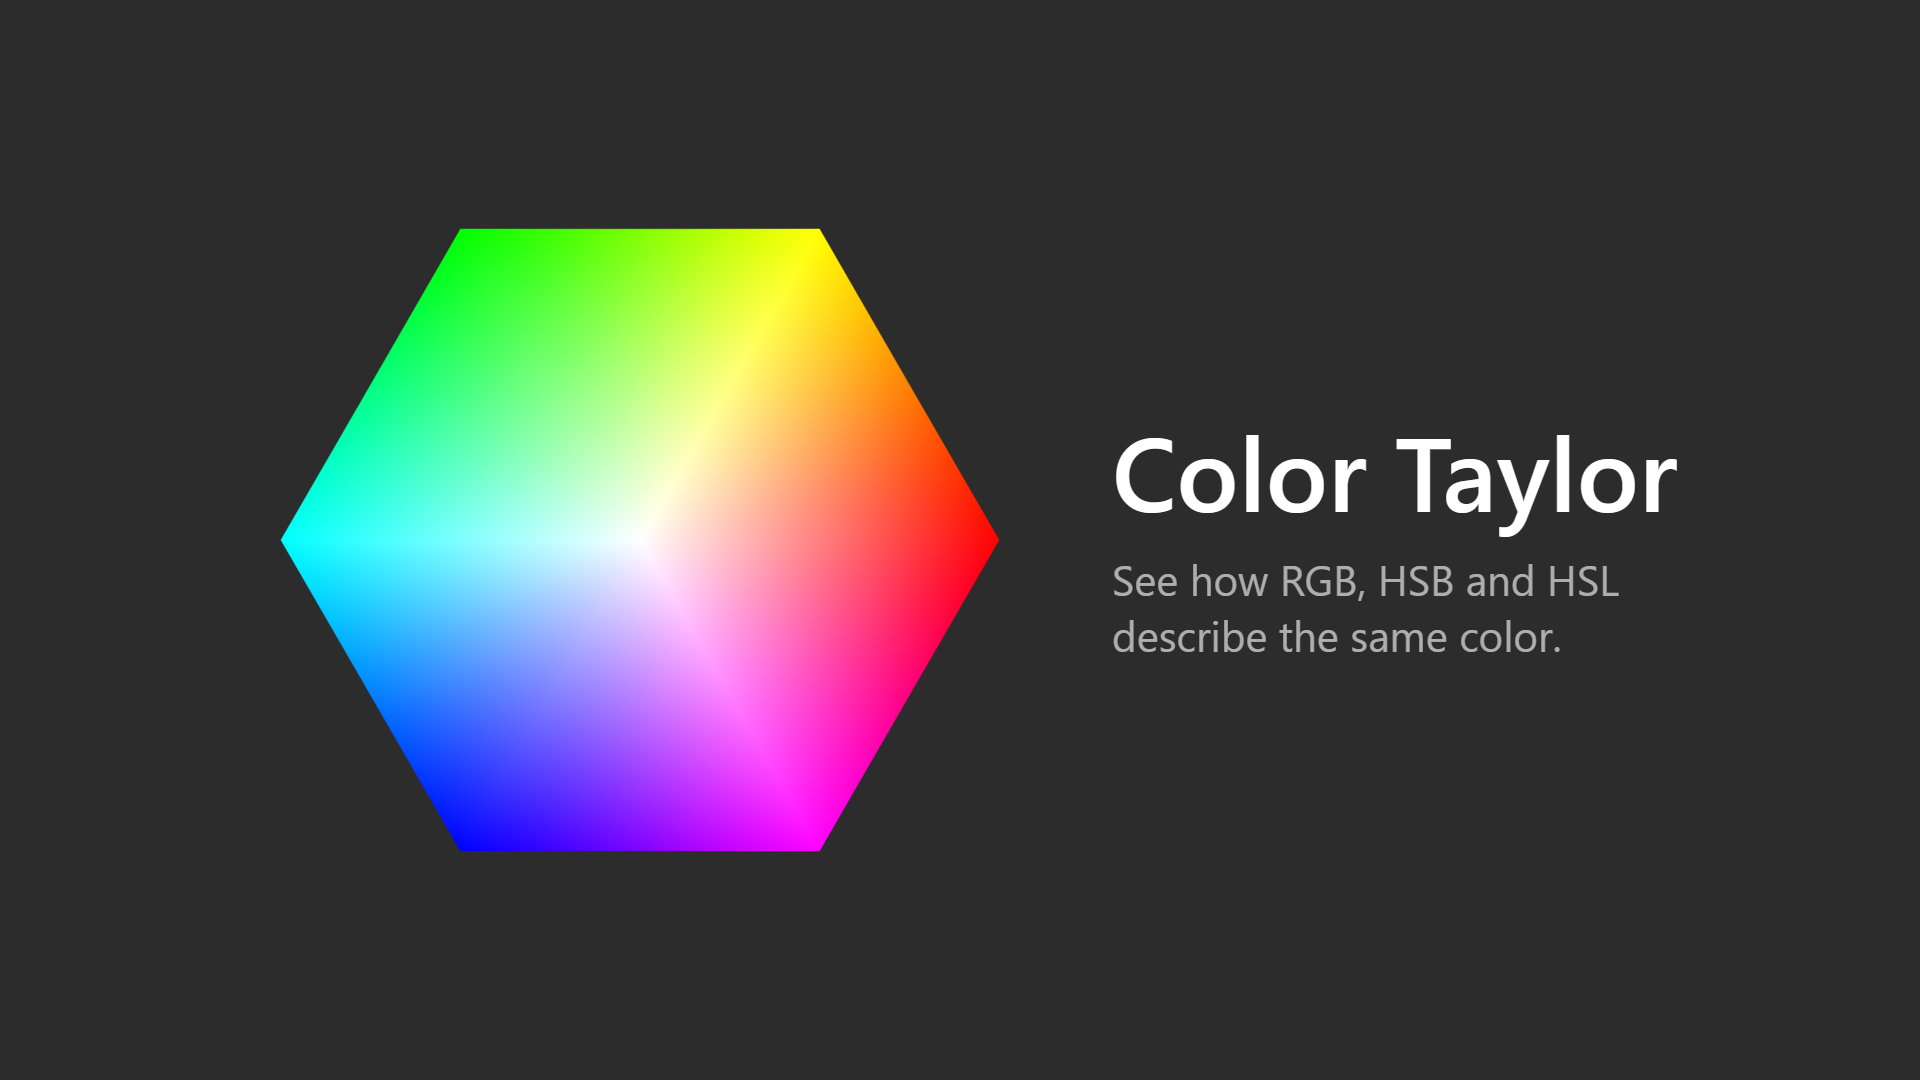
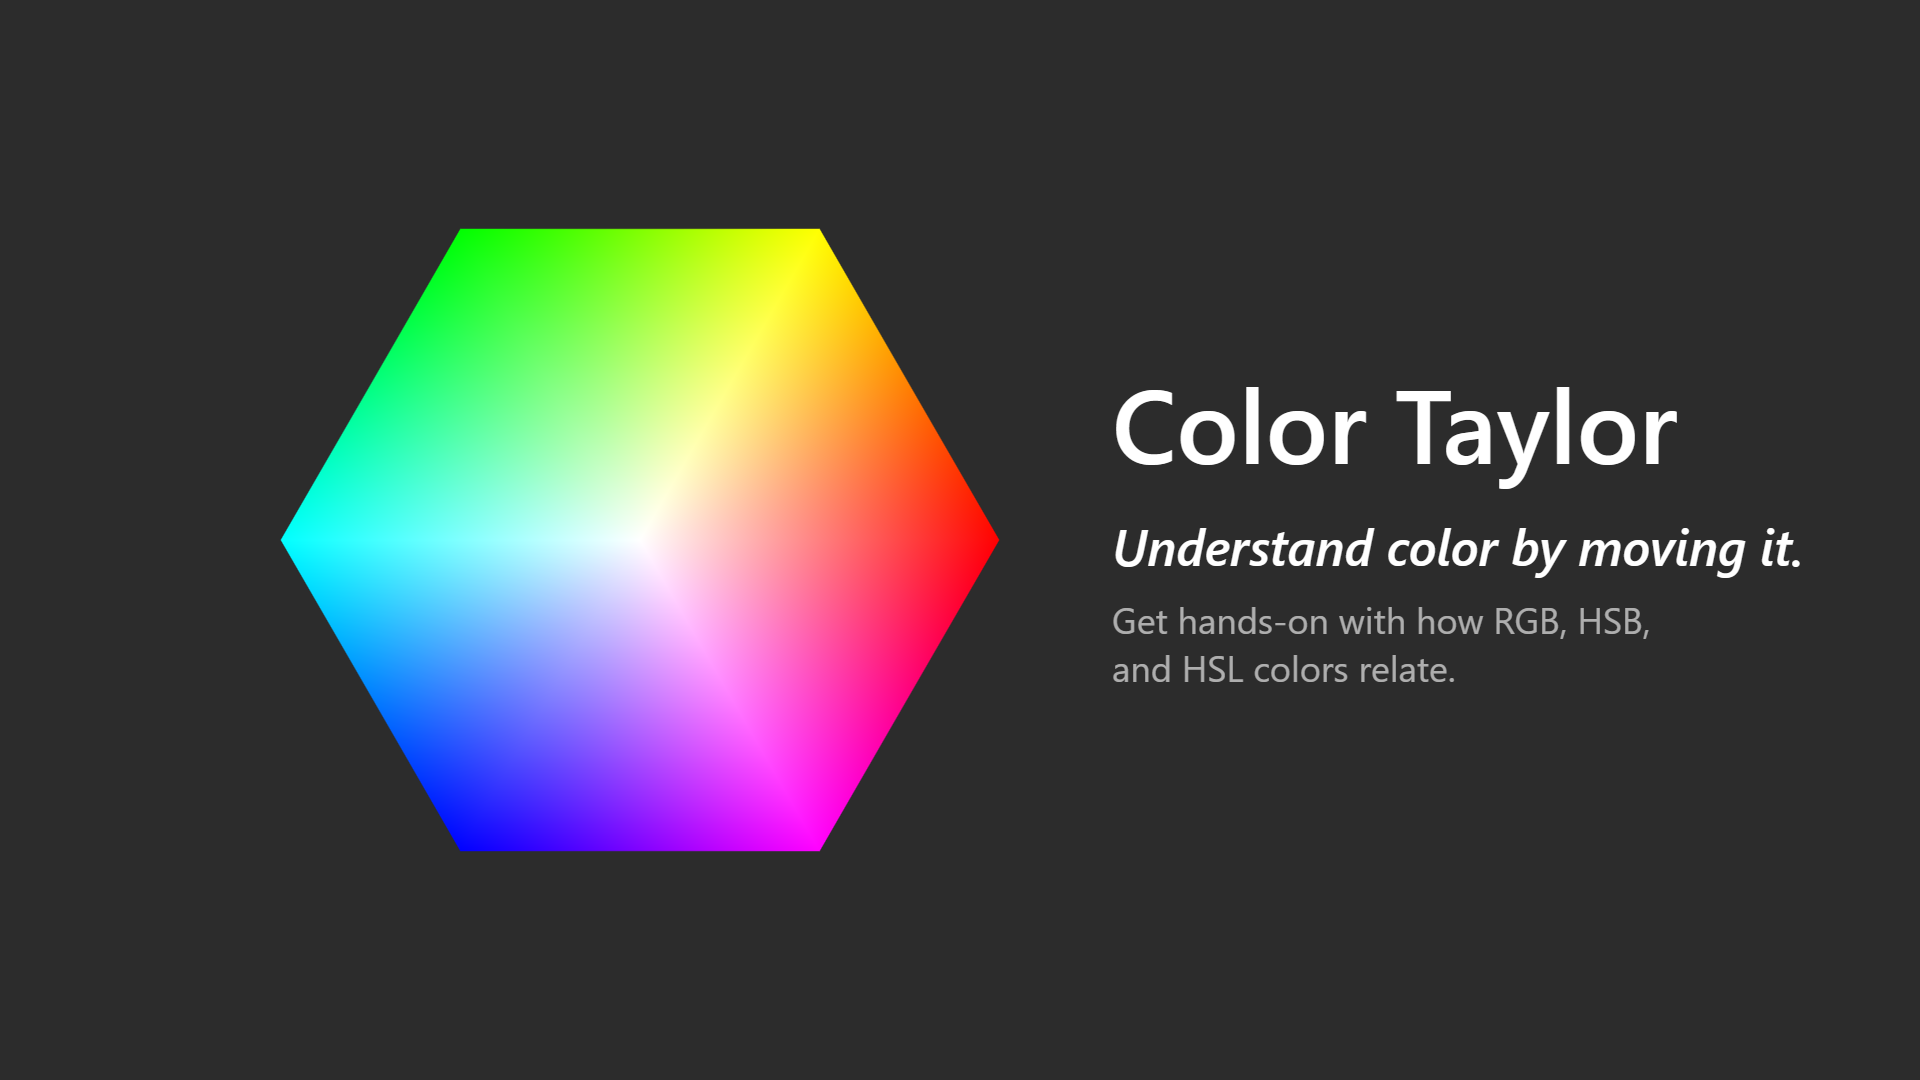
feat(brand): new slogan lockup on the cover and as the listing tagline
"Understand color by moving it." over "Get hands-on with how RGB, HSB, and
HSL colors relate." - motion as the headline, the model relationship as the
subtitle. Rendered into the generated 1920x1080 cover (wordmark, italic
headline, dimmed subtitle) and made the tagline in listing.md, retiring
"See how RGB, HSB and HSL describe the same color."

Changed region(s): [[0.5625, 0.3361, 0.9375, 0.6417]]

diff --git a/wiki/daily/2026-08-18.md b/wiki/daily/2026-08-18.md
@@ -1,0 +1,3 @@
+Slogan settled for the plugin listing — *"Understand color by moving it."* as the headline, with the subtitle "Get hands-on with how RGB, HSB, and HSL colors relate." (User's wording, grammar smoothed.) Rendered into the generated cover via `make-assets.mjs` — wordmark, italic headline, dimmed two-line subtitle beside the hex — and made the tagline in `figma/brand/listing.md`, retiring "See how RGB, HSB and HSL describe the same color." The description copy still carries the same-color idea, so the listing doesn't lose it.
+
+(2026-08-17, unlogged: added a 2046×2046 pixel-exact hex render as `Hex / pixel-exact / 2046` in the Figma file for promotional use — frame `75:2`, render kept out of the repo as it's regenerable.)

diff --git a/figma/brand/listing.md b/figma/brand/listing.md
@@ -8,7 +8,12 @@ Draft for the Figma publish modal. Assets alongside: `icon-128.png`, `cover-1920
 
 ## Tagline
 
-    See how RGB, HSB and HSL describe the same color.
+    Understand color by moving it.
+
+The full lockup (settled 2026-08-18, used on the thumbnail): the tagline as
+headline, then "Get hands-on with how RGB, HSB, and HSL colors relate." The
+previous tagline ("See how RGB, HSB and HSL describe the same color.") is
+retired but the description below still carries the same idea.
 
 ## Description
 
